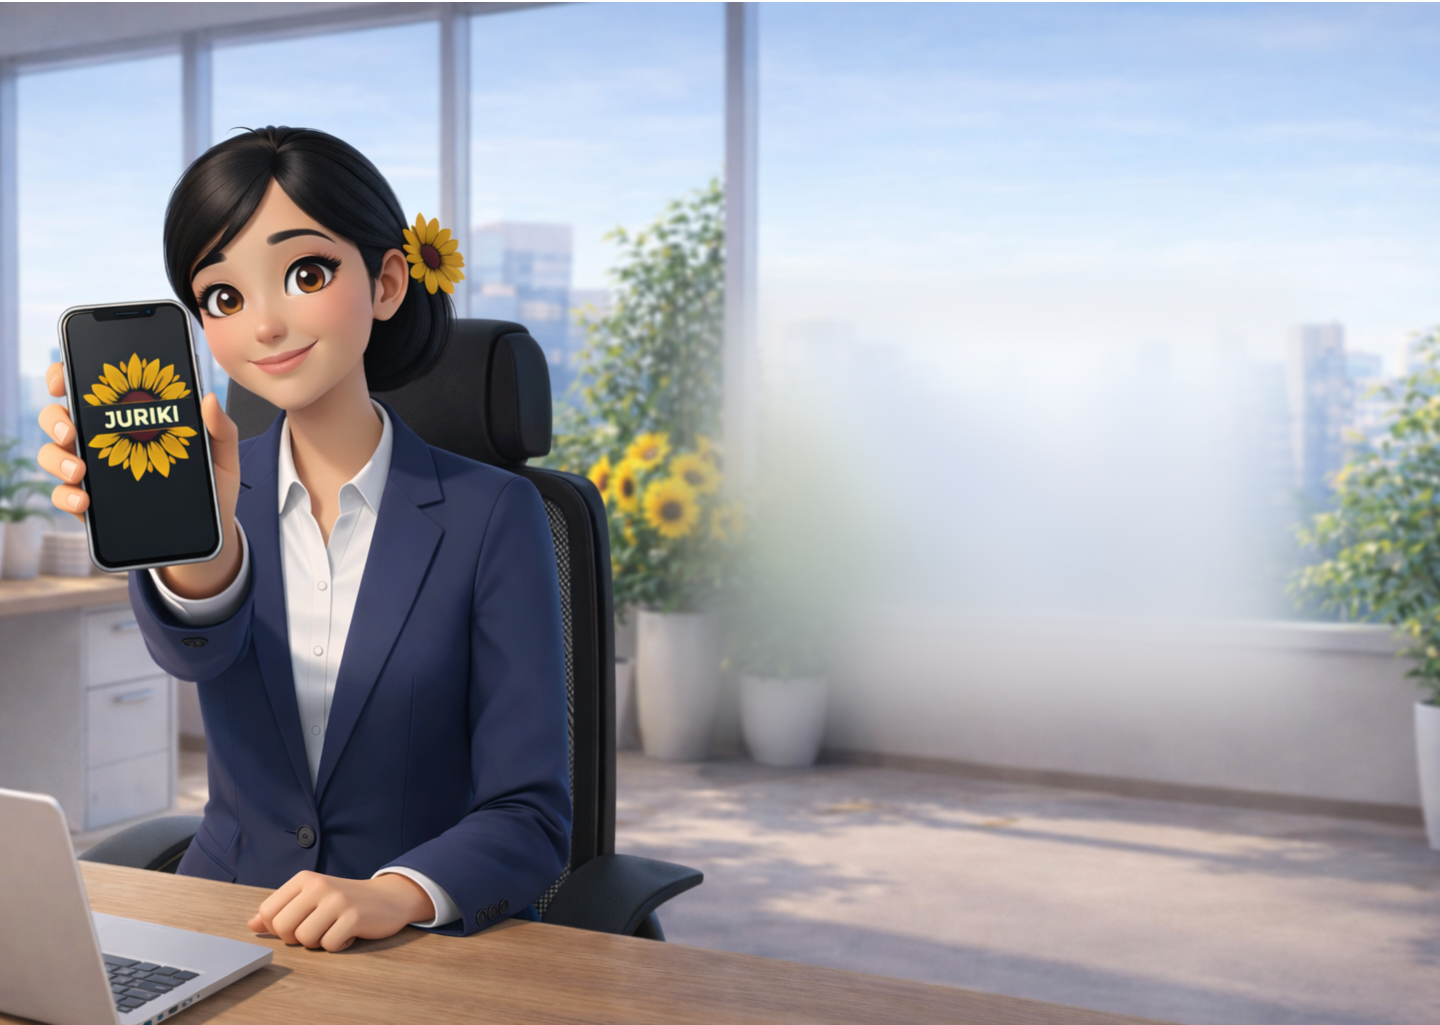
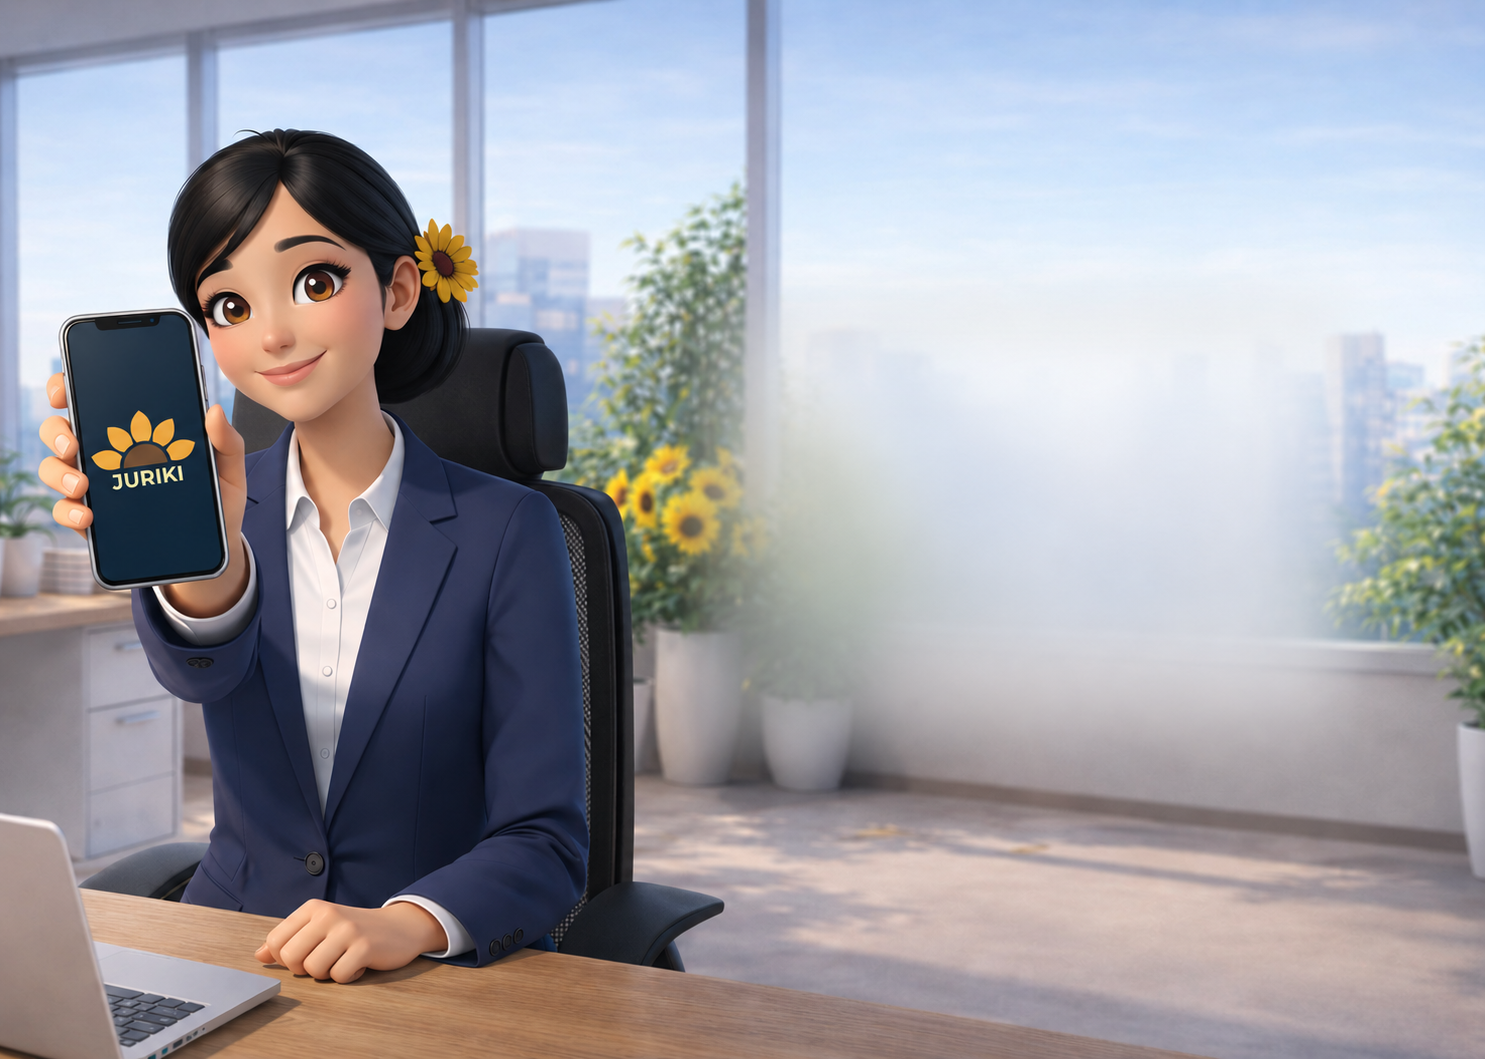
SOBRE NOS AJUSTADO

diff --git a/src/pages/SobreNos/SobreNos.module.css b/src/pages/SobreNos/SobreNos.module.css
@@ -38,6 +38,8 @@
   width: 100%;
   max-width: 520px;
   text-align: left;
+  right: 150px;
+  top: -40px;
 }
 
 .badge {